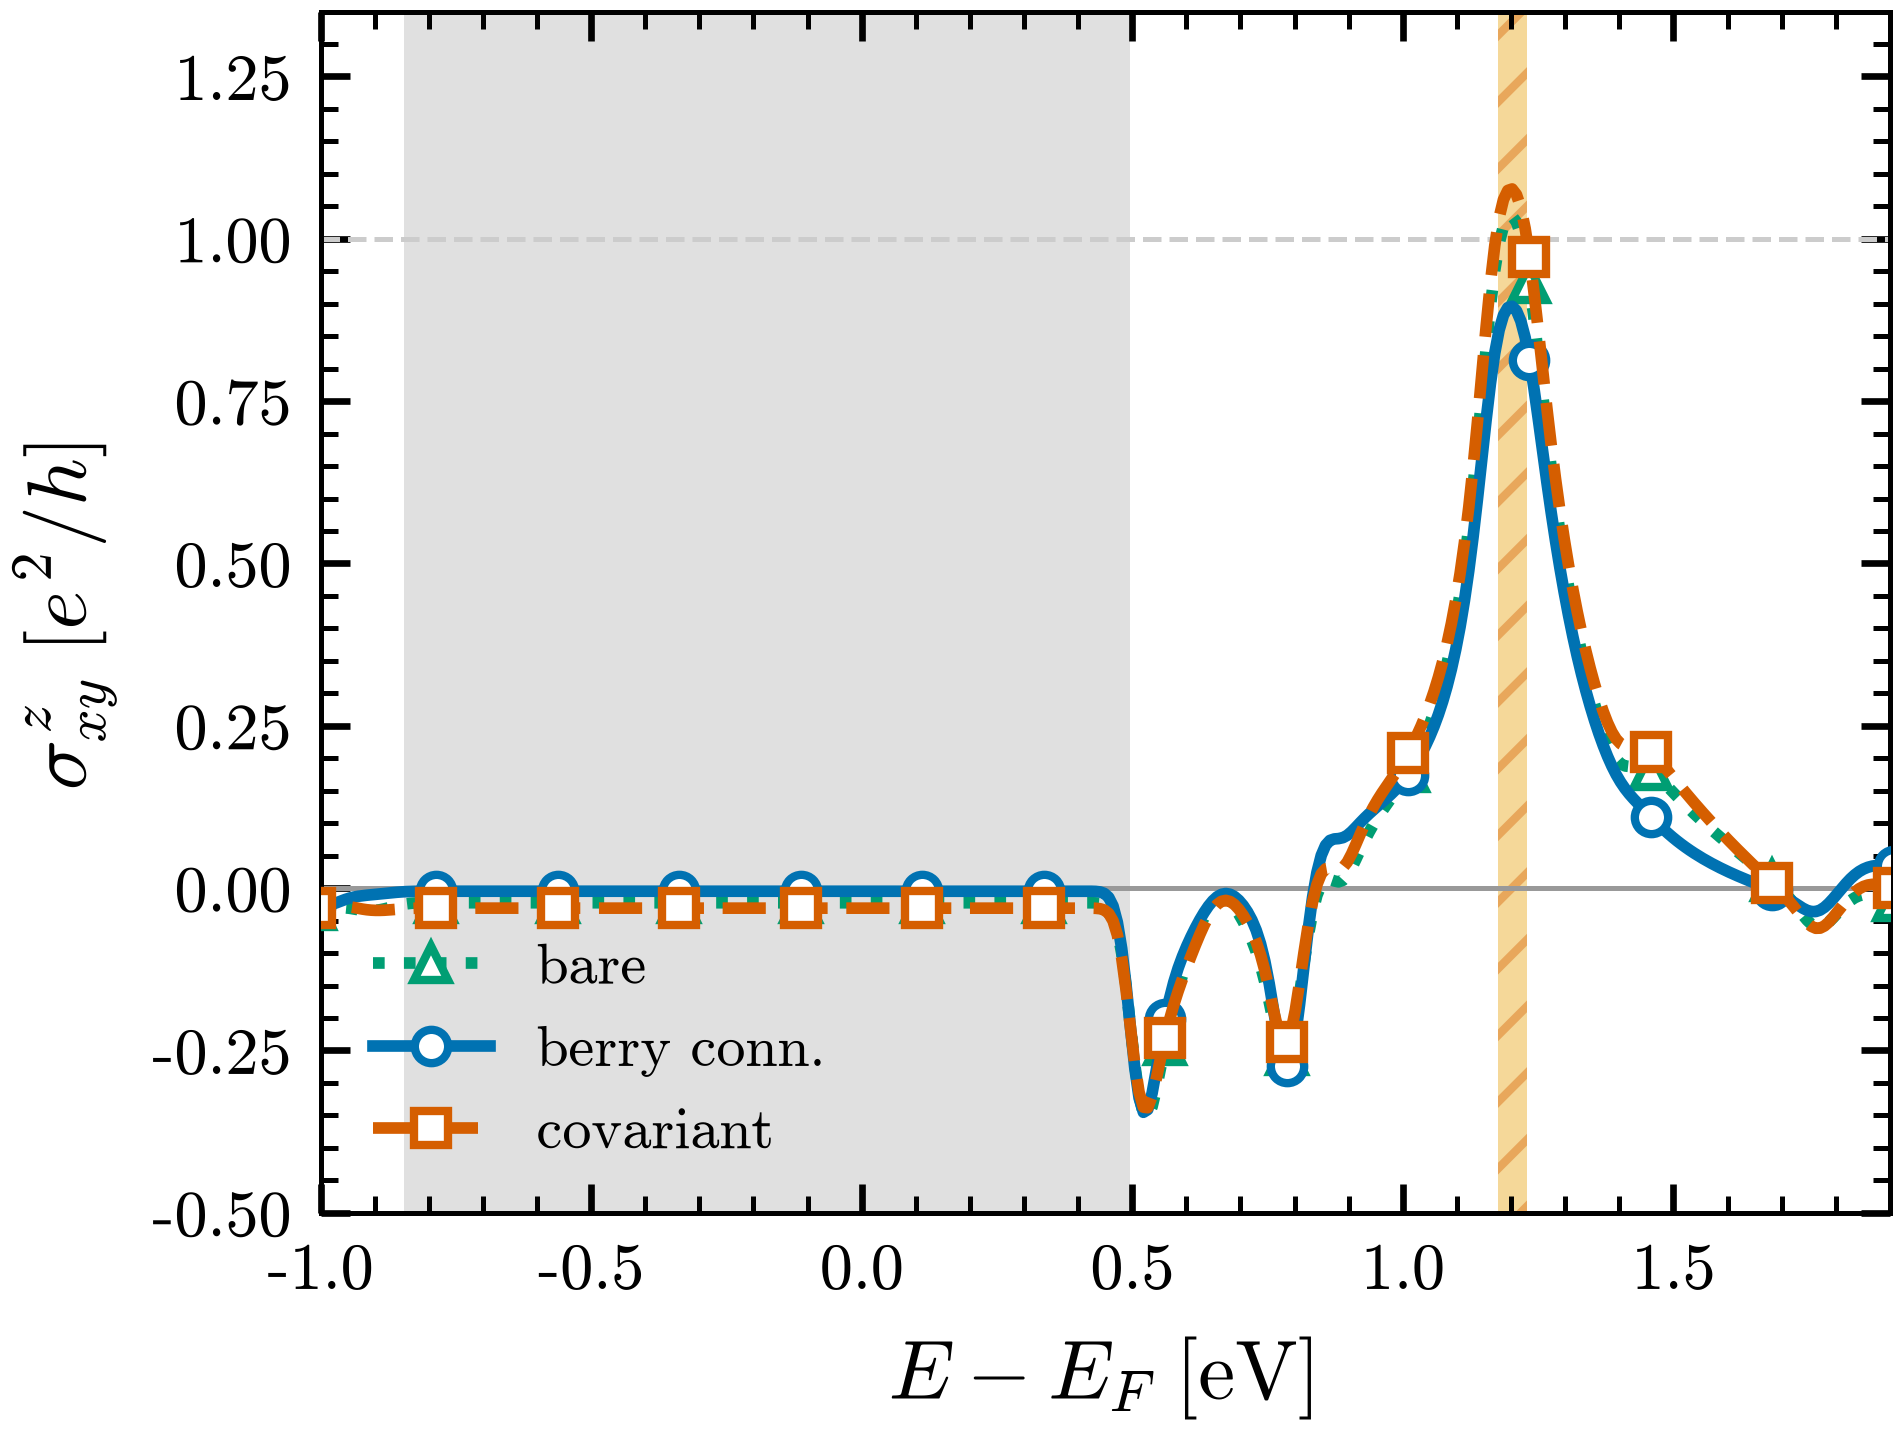
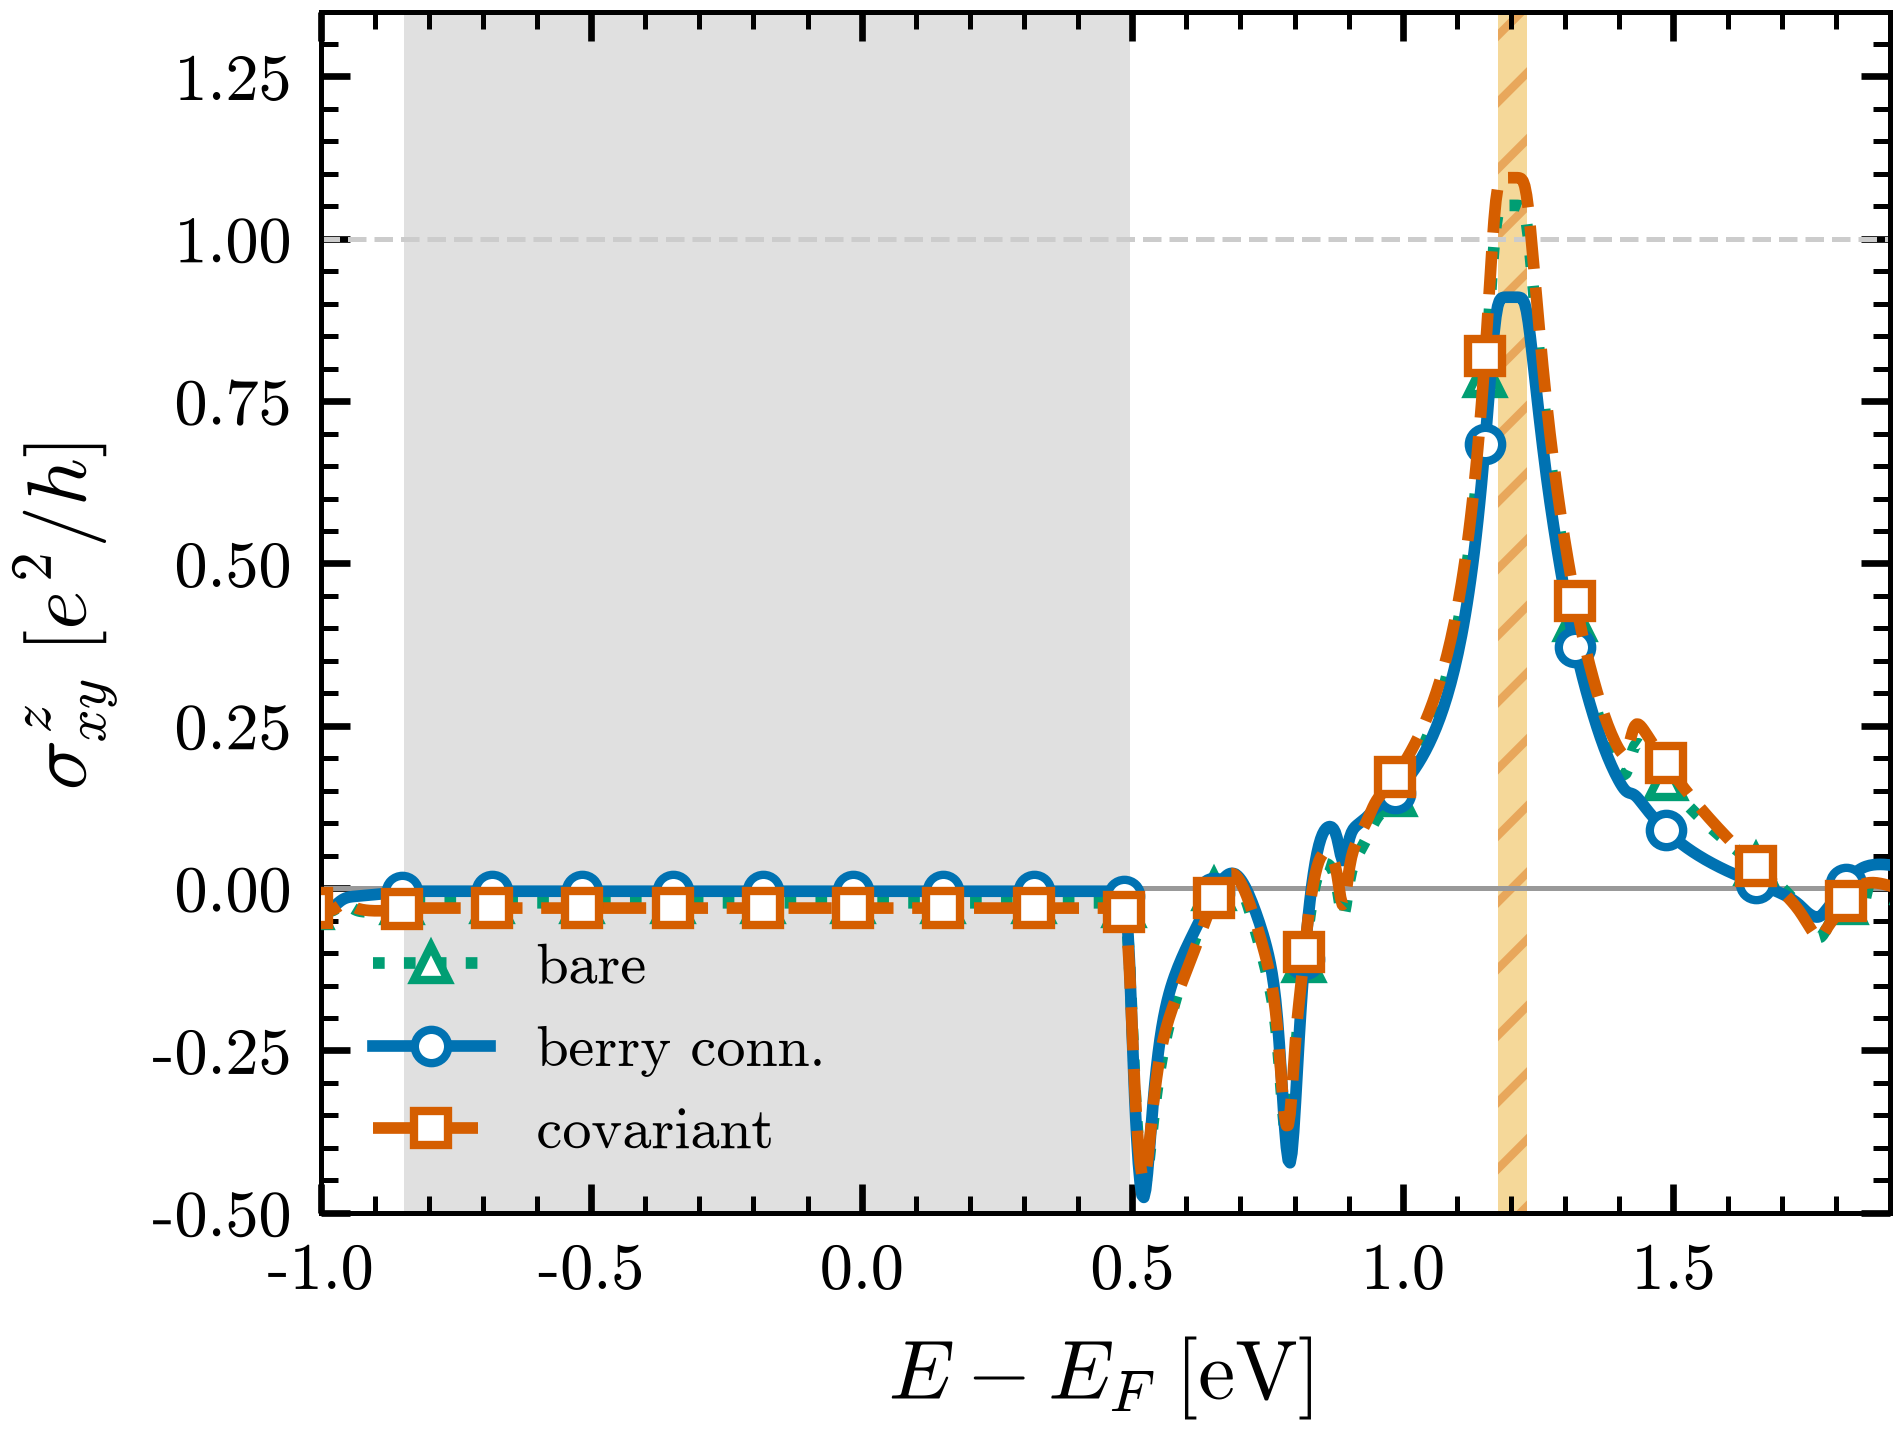
docs(example9): resolve the SHC plateau — finer k-mesh + sub-gap broadening
The PdSe2 topological-gap plateau was being smeared into a peak by too-coarse
resolution: the gap is only ~55 meV, and at eta=20 meV the band edges bleed into
it so the cumulative sigma^z_xy never flattens. Regenerated the figures with a
broadening below the gap width and a denser k-mesh, matching (and exceeding) the
golden master's designed resolution (nk=240, ngrid=600):

  nk=300, eta=6 meV, ngrid=1200  ->  flat plateau, std 0.007 over 17 in-gap points
  (converges further at nk=360/eta=5 meV: std 0.005). At the old nk=160/eta=20 meV
  the same quantity had std 0.021 and looked like a peak.

Why these files changed:
- img/pdse2_shc.png: now a ZOOM on the topological gap (E-EF in [0.95,1.45]) so the
  flat plateau is unmistakable — a horizontal segment at +1.09 e^2/h across the
  55 meV gap (blue bar), with the +1 reference line.
- img/pdse2_shc_modes.png: three-mode comparison regenerated at nk=300/eta=6 meV;
  plateaus bare +1.05, berry_connection +0.91, covariant +1.09 e^2/h (all flat),
  wannierberri reference +0.94.
- README.md: FIG. 2 / FIG. 3 captions updated to the new resolution and values;
  FIG. 3 reframed as the resolved-plateau zoom; the exact-diag command now uses
  --shc-units e2h --nk 300 --eta 0.006 and explains why eta << gap is required;
  removed the stale "bare velocity anticorrelates / misses the plateau" warning
  (untrue — all three rungs give the near-quantized plateau).
[…]

Changed region(s): [[0.1552, 0.1229, 0.838, 0.8296], [0.838, 0.4916, 1.0, 0.6453], [0.8069, 0.3994, 0.838, 0.4609]]

diff --git a/examples/example_9_SHC_in_PdSe2/README.md b/examples/example_9_SHC_in_PdSe2/README.md
@@ -151,10 +151,11 @@ green triangles: `bare`; solid blue circles: `berry_connection` (default);
 dashed orange squares: `covariant`. Grey band: the trivial Fermi-level gap
 ($\sigma^{z}_{xy}\approx 0$); orange hatched band: the topological gap at
 $E-E_F\approx 1.2$ eV; grey dashed line: $+1\,e^2/h$. All three modes land on the
-same near-quantized plateau (bare $+1.01$, berry\_connection $+0.88$, covariant
-$+1.05\,e^2/h$; the wannierberri covariant reference gives $+0.94$) — the topology
+same near-quantized plateau (bare $+1.05$, berry\_connection $+0.91$, covariant
+$+1.09\,e^2/h$; the wannierberri covariant reference gives $+0.94$) — the topology
 is robust to the rung, and the $\sim$10% spread is the Berry-connection refinement.
-Exact diagonalization on a $160\times160$ k-mesh, $\eta=20$ meV; $e^2/h$ via
+Exact diagonalization on a $300\times300$ k-mesh with $\eta=6$ meV (below the
+55 meV gap, so the cumulative sum is *flat* across it — see FIG. 3); $e^2/h$ via
 `tools/hr_exactdiag.py shc --shc-units e2h`. $E_F=-1.3162$ eV.
 
 The lesson the figure makes concrete: for *this* gap the three rungs agree to
@@ -184,32 +185,40 @@ $O(\mathbf{k})$ and diagonalizes densely on a k-mesh, with no supercell:
 ```bash
 ../../tools/hr_exactdiag.py bands pdse2_proj --ef -1.3162   # FIG. 1
 ../../tools/hr_exactdiag.py dos   pdse2_proj                # DOS, integral = num_wann
-# WARNING: the bare velocity below gets sigma^z_xy WRONG (it anticorrelates with
-# the truth, r = -0.34); it is shown only to make the Berry-connection lesson concrete.
-../../tools/hr_exactdiag.py shc   pdse2_proj \
+# intrinsic sigma^z_xy in e^2/h. The covariant spin current (Jop) and v_y come from
+# `wannier2sparse --velocity-mode covariant`; --shc-units e2h applies the -pi factor.
+# Use eta << the 55 meV topological gap and a dense k-mesh so the plateau is FLAT,
+# not a broadening-smeared peak (see FIG. 3):
+../../tools/hr_exactdiag.py shc pdse2_proj \
         --jop pdse2_proj_JXSZ_hr.dat --vop pdse2_proj_vy_hr.dat \
-        --nk 240 --eta 0.02 --emin -3.0 --emax 1.0 --out pdse2_shc_bare
+        --shc-units e2h --nk 300 --eta 0.006 --ngrid 1200 \
+        --emin -3.0 --emax 1.0 --out pdse2_shc
 ```
 
-The figure below is the **covariant-velocity** result (the velocity carrying the
-Berry connection $A_a$, here from the wannierberri position matrix `AA_R`). That is
-the curve that matches the linear-scaling KPM once its velocity is refined the same
-way, and it is the physically correct $\sigma^{z}_{xy}$.
+The figure below is the **covariant-velocity** result. Resolution matters: the
+topological gap is only $\approx 55$ meV, so at a coarse broadening ($\eta=20$ meV)
+the cumulative $\sigma^{z}_{xy}$ never flattens and the plateau reads as a peak;
+with $\eta=6$ meV on a $300\times300$ mesh it is a genuine flat plateau.
 
-![Intrinsic spin Hall conductivity of PdSe2 versus energy: flat and near-zero across the trivial main gap, a near-quantized +0.94 e2/h plateau at the topological gap near +1.2 eV](img/pdse2_shc.png)
+![Zoom on the topological gap of PdSe2: the covariant spin Hall conductivity is a flat plateau at +1.09 e2/h across the 55 meV gap](img/pdse2_shc.png)
 
-FIG. 3. The `covariant` curve of FIG. 2 alone, with both gaps marked. Intrinsic
-(Fermi-sea) $\sigma^{z}_{xy}(E_F)$ of monolayer PdSe$_2$ versus $E-E_F$ in units of
-$e^2/h$ (covariant velocity; exact diagonalization, $60\times60$ k-mesh). Grey
-band: the **trivial** charge gap $[-0.85,+0.50]$ eV around $E_F$, where
-$\sigma^{z}_{xy}\approx 0$ (no plateau, $Z_2=0$). Orange hatched band: the narrow
-**topological** gap at $E-E_F\approx +1.2$ eV (bands 7|8, width $\approx 55$ meV),
-where $\sigma^{z}_{xy}$ sits on a flat **near-quantized plateau** (grey dashed line:
-$+1\,e^2/h$; the independent wannierberri covariant reference gives $+0.94$). It
-falls just short of the integer because spin-orbit coupling breaks $[S_z,H]=0$, so
-$S_z$ is not exactly conserved and the spin-Chern quantization is only approximate;
-the plateau's flatness and near-integer height are the operational fingerprint of
-the gap's non-trivial topology. $E_F=-1.3162$ eV.
+FIG. 3. Zoom on the topological gap, where the plateau is resolved. Intrinsic
+(Fermi-sea) $\sigma^{z}_{xy}(E_F)$ of monolayer PdSe$_2$ (covariant velocity) in
+units of $e^2/h$ versus $E-E_F$ around the conduction-manifold gap. Orange hatched
+band: the **topological** gap at $E-E_F\in[1.175,1.230]$ eV (bands 7|8, width
+$\approx 55$ meV); blue bar: the **flat plateau** across it; grey dashed line:
+$+1\,e^2/h$. As the Fermi level sweeps the gap no states are added, so the
+cumulative $\sigma^{z}_{xy}$ is constant — a genuine plateau at $+1.09\,e^2/h$
+(standard deviation $0.007$ over the 17 grid points inside the gap). Resolving it
+requires a broadening below the gap width: exact diagonalization on a
+$300\times300$ k-mesh with $\eta=6$ meV $\ll 55$ meV (at the earlier $\eta=20$ meV
+the band edges bled into the gap and the plateau looked like a peak). It sits just
+above the integer because spin-orbit coupling breaks $[S_z,H]=0$, so $S_z$ is not
+exactly conserved and the spin-Chern quantization is only approximate (the
+independent wannierberri covariant reference gives $+0.94$); the flatness and
+near-integer height are the operational fingerprint of the gap's topology. The
+*trivial* Fermi-level gap (FIG. 2, grey band) instead stays at $\approx 0$.
+$E_F=-1.3162$ eV.
 
 This is the framework that turns any reconstructed `_hr.dat` operator set into
 bands, DOS, and Kubo quantities, and it is how the curves of FIG. 2 are produced
@@ -226,8 +235,9 @@ straddling $E_F$, is trivial ($Z_2=0$): $\sigma^{z}_{xy}$ stays flat at
 $\approx 0$ through it, no plateau. But PdSe$_2$ is **not** globally trivial.
 Higher up, a narrow gap in the conduction manifold near $E-E_F\approx 1.2$ eV
 (bands 7|8) is topological, and there $\sigma^{z}_{xy}$ locks onto a flat
-**near-quantized plateau at $+0.94\,e^2/h$** — almost the same integer step
-Haldane shows for the charge Hall. It falls just short of an exact $+1$ because
+**near-quantized plateau at $\approx +1\,e^2/h$** (FIG. 3; $+1.09$ from the
+covariant velocity, $+0.94$ from the wannierberri cross-check) — almost the same
+integer step Haldane shows for the charge Hall. It sits just off an exact $+1$ because
 spin-orbit coupling breaks $[S_z,H]=0$, so $S_z$ is not perfectly conserved and the
 spin-Chern quantization is only approximate; but the plateau's flatness and
 near-integer height are the operational fingerprint of the gap's non-trivial